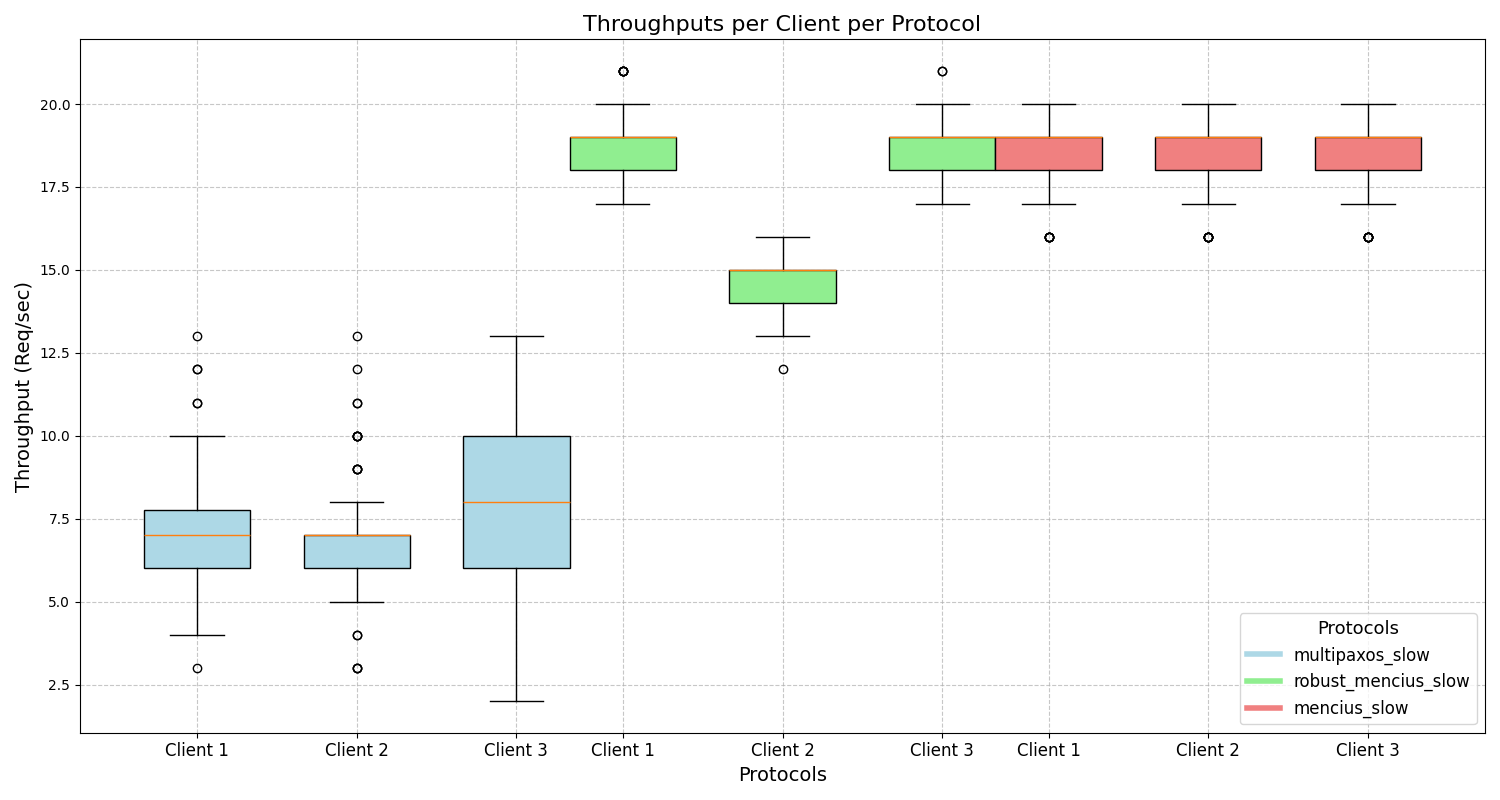
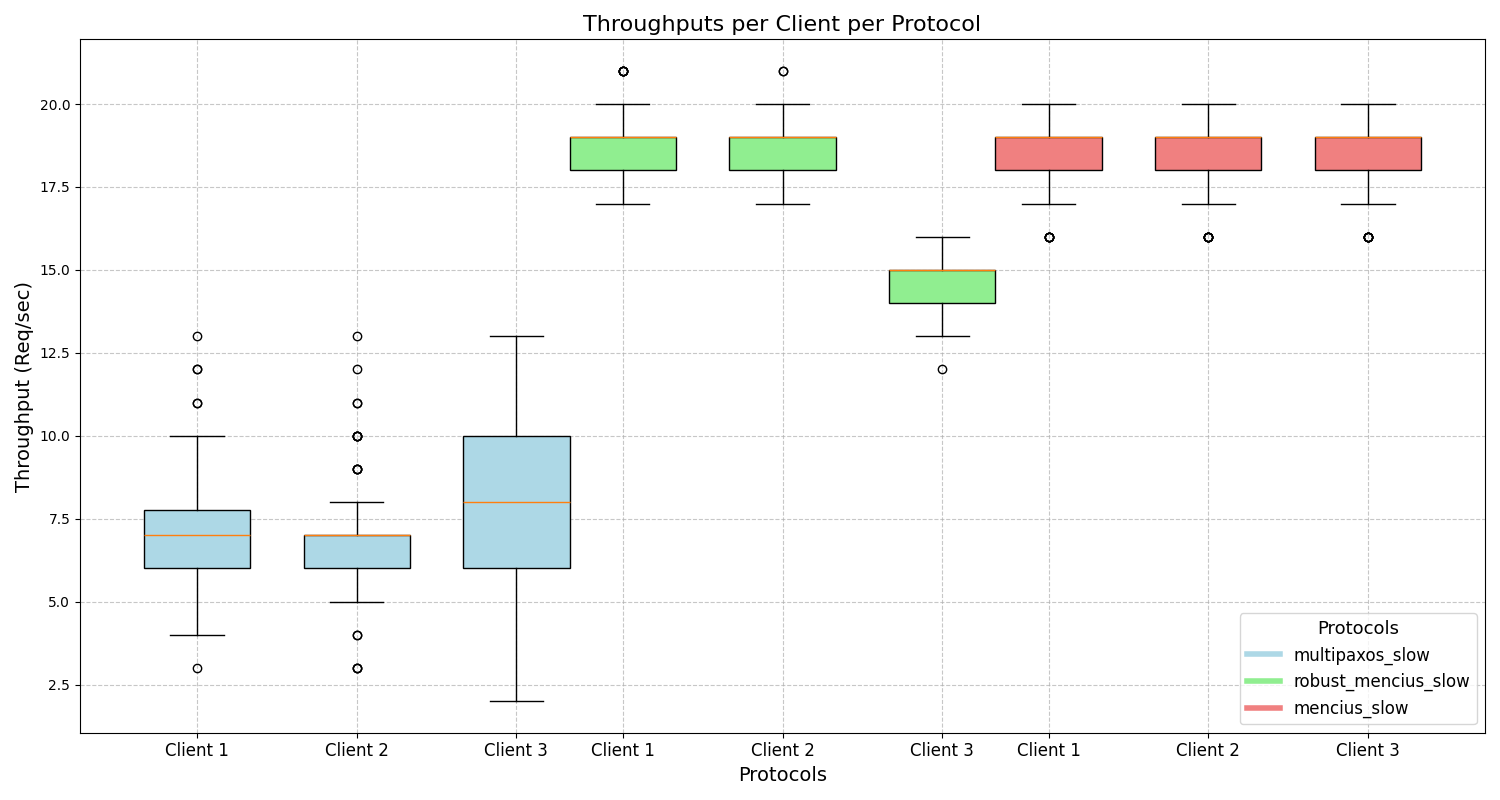
plots

Changed region(s): [[0.46, 0.25, 0.6747, 0.4375], [0.46, 0.125, 0.6747, 0.2188]]

diff --git a/plotting/main.py b/plotting/main.py
@@ -234,8 +234,10 @@ def box_whiskers_plot_throughput(throughput_trials, suffix):
 
 def box_whiskers_plot_throughput1(throughput_trials, suffix):
     grouped_data = {k: [[i[1] for i in j][50:200] for j in v] for k, v in throughput_trials.items()}
+
     # Some of the data is in the wrong order, so we need to swap them
-    grouped_data['robust_mencius_slow'][1], grouped_data['robust_mencius_slow'][2] = grouped_data['robust_mencius_slow'][2], grouped_data['robust_mencius_slow'][1]
+    # grouped_data['multipaxos_slow'][1], grouped_data['multipaxos_slow'][2] = grouped_data['multipaxos_slow'][2], grouped_data['multipaxos_slow'][1]
+    # grouped_data['robust_mencius_slow'][1], grouped_data['robust_mencius_slow'][2] = grouped_data['robust_mencius_slow'][2], grouped_data['robust_mencius_slow'][1]
     fig, ax = plt.subplots(figsize=(15, 8))
 
     # Define colors for each protocol
